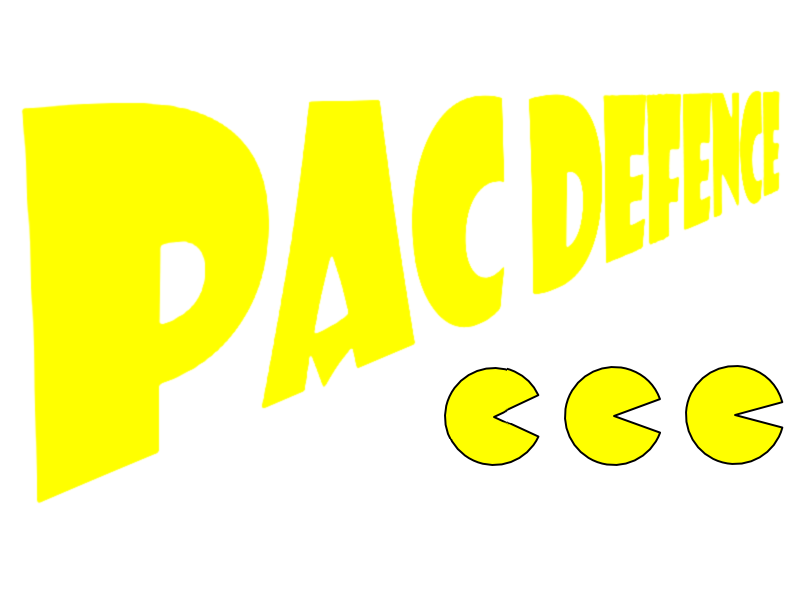
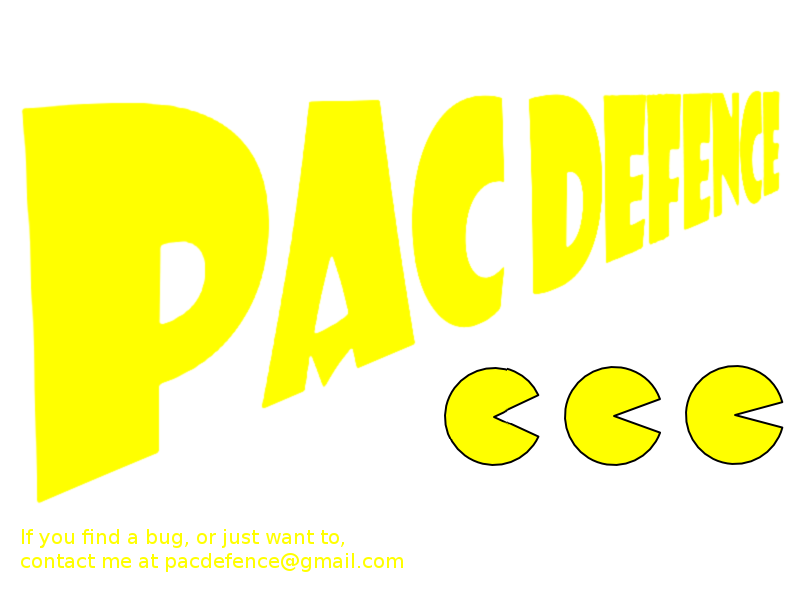
Added contact me bit to title image and shifted the continue button to the bottom right to make space.

Changed region(s): [[0.0312, 0.87, 0.5, 0.96]]

diff --git a/PacDefence/src/gui/Title.java b/PacDefence/src/gui/Title.java
@@ -44,7 +44,9 @@ public class Title extends JPanel {
       g.drawImage(ImageHelper.makeImage(width, height, "other", "title.png"), 0, 0, null);
       JButton continueButton = new OverlayButton("buttons", "continue.png");
       continueButton.addActionListener(continueListener);
-      add(SwingHelper.createWrapperPanel(continueButton, 10), BorderLayout.SOUTH);
+      add(SwingHelper.createBorderLayedOutWrapperPanel(
+            SwingHelper.createWrapperPanel(
+                  continueButton, 10), BorderLayout.EAST), BorderLayout.SOUTH);
       setPreferredSize(new Dimension(width, height));
    }
    
